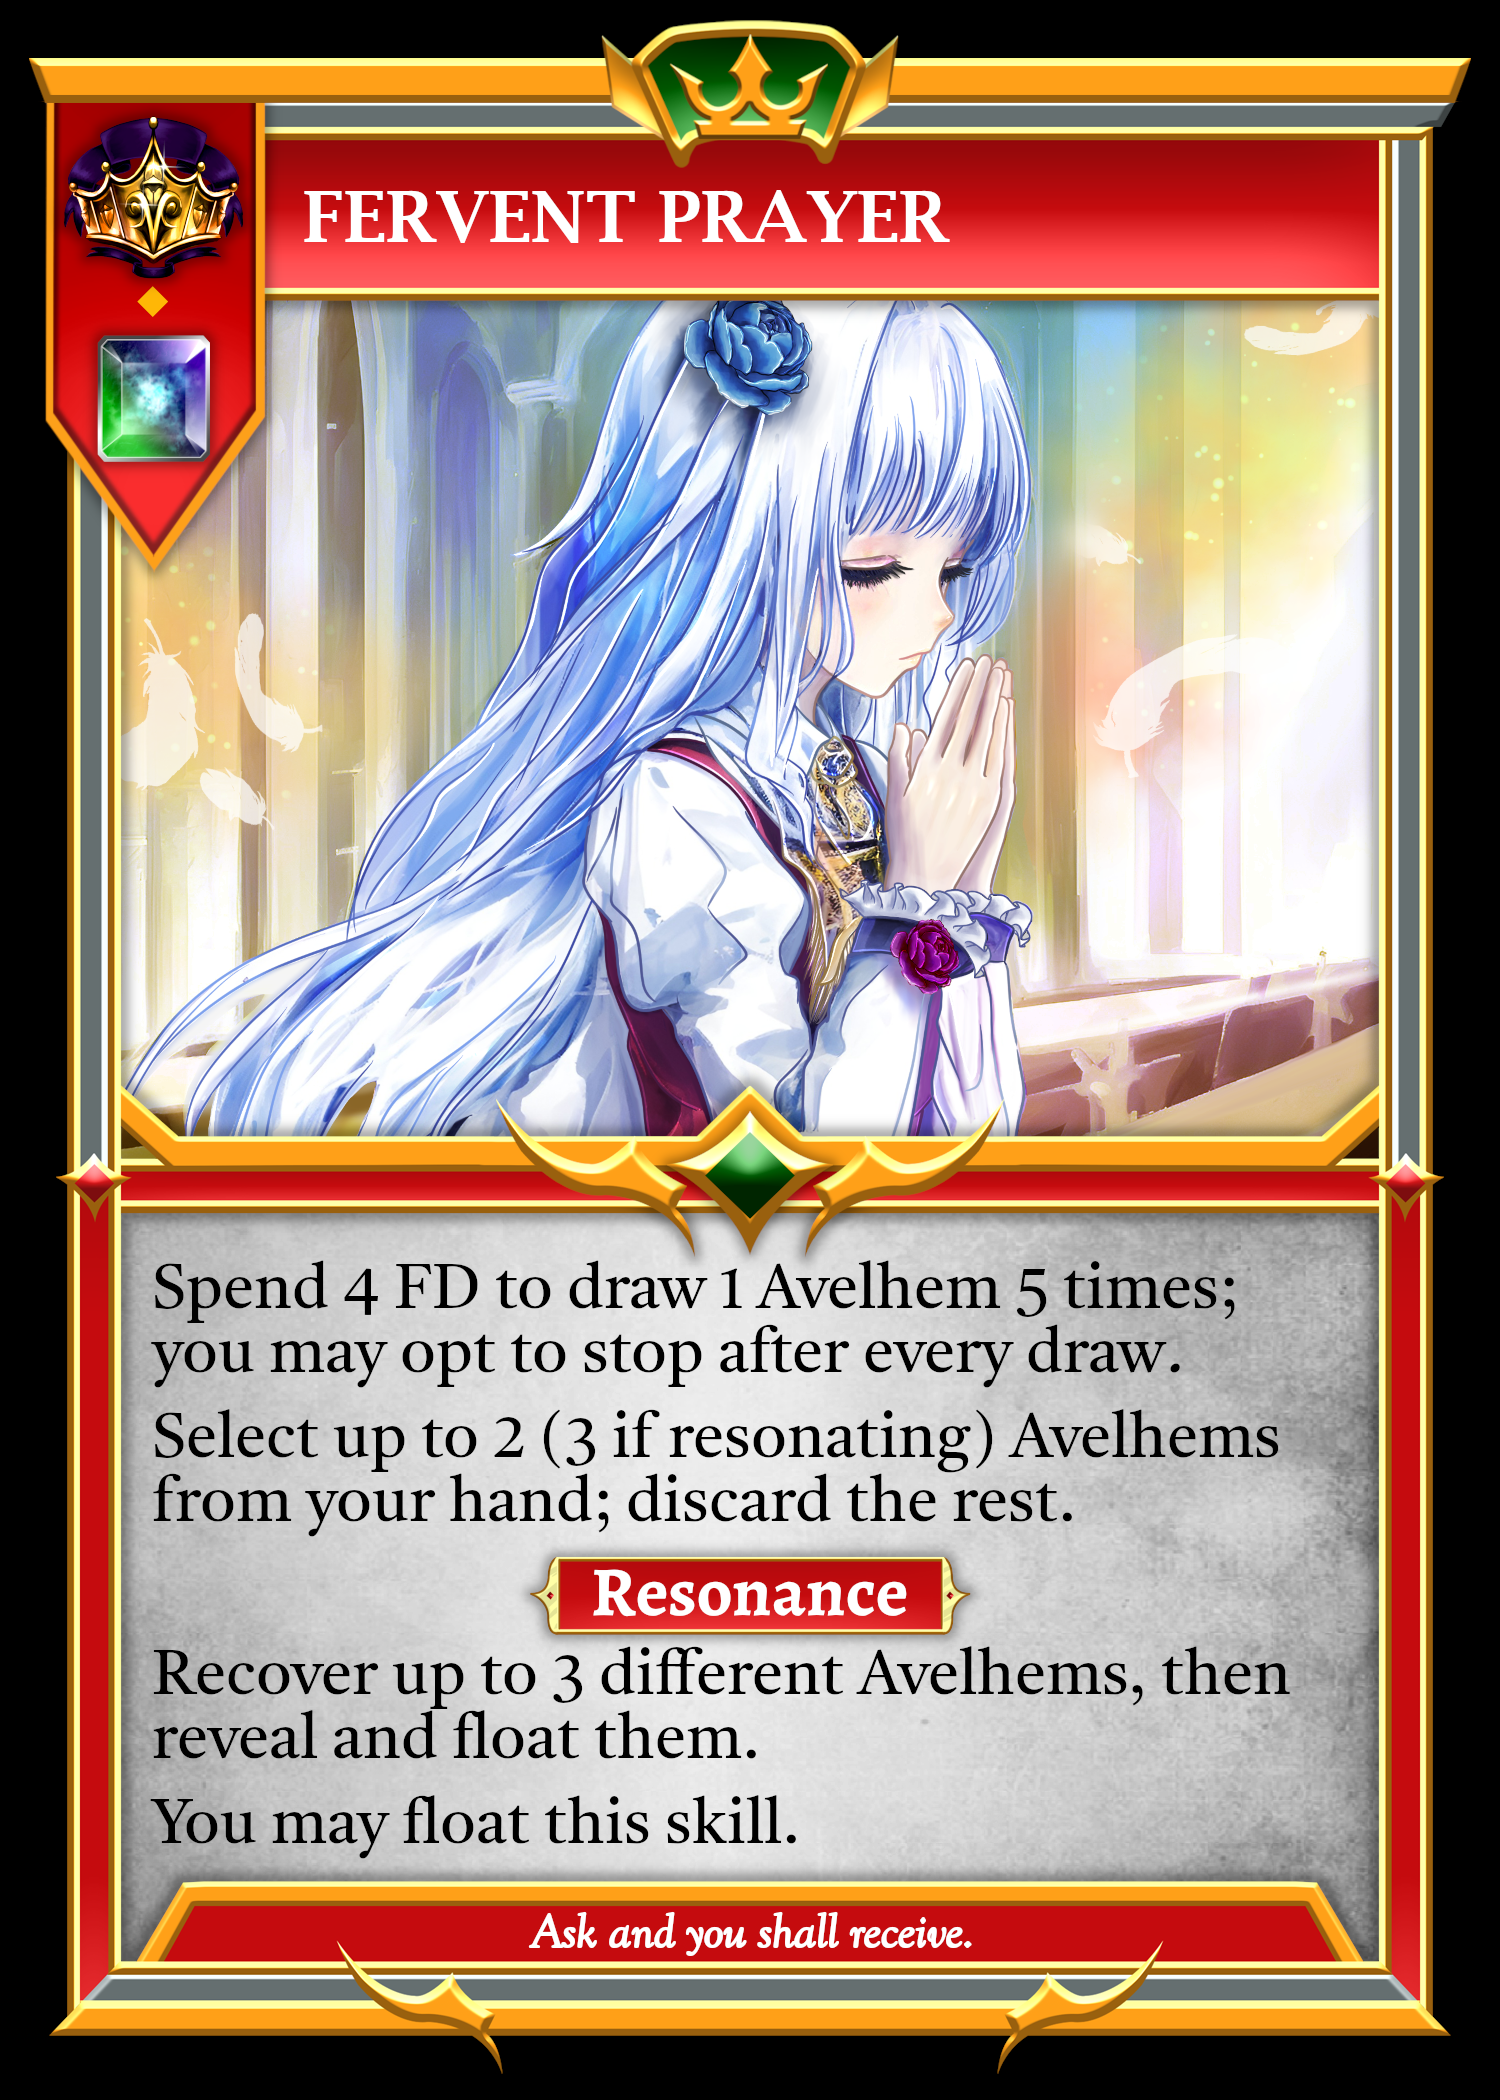
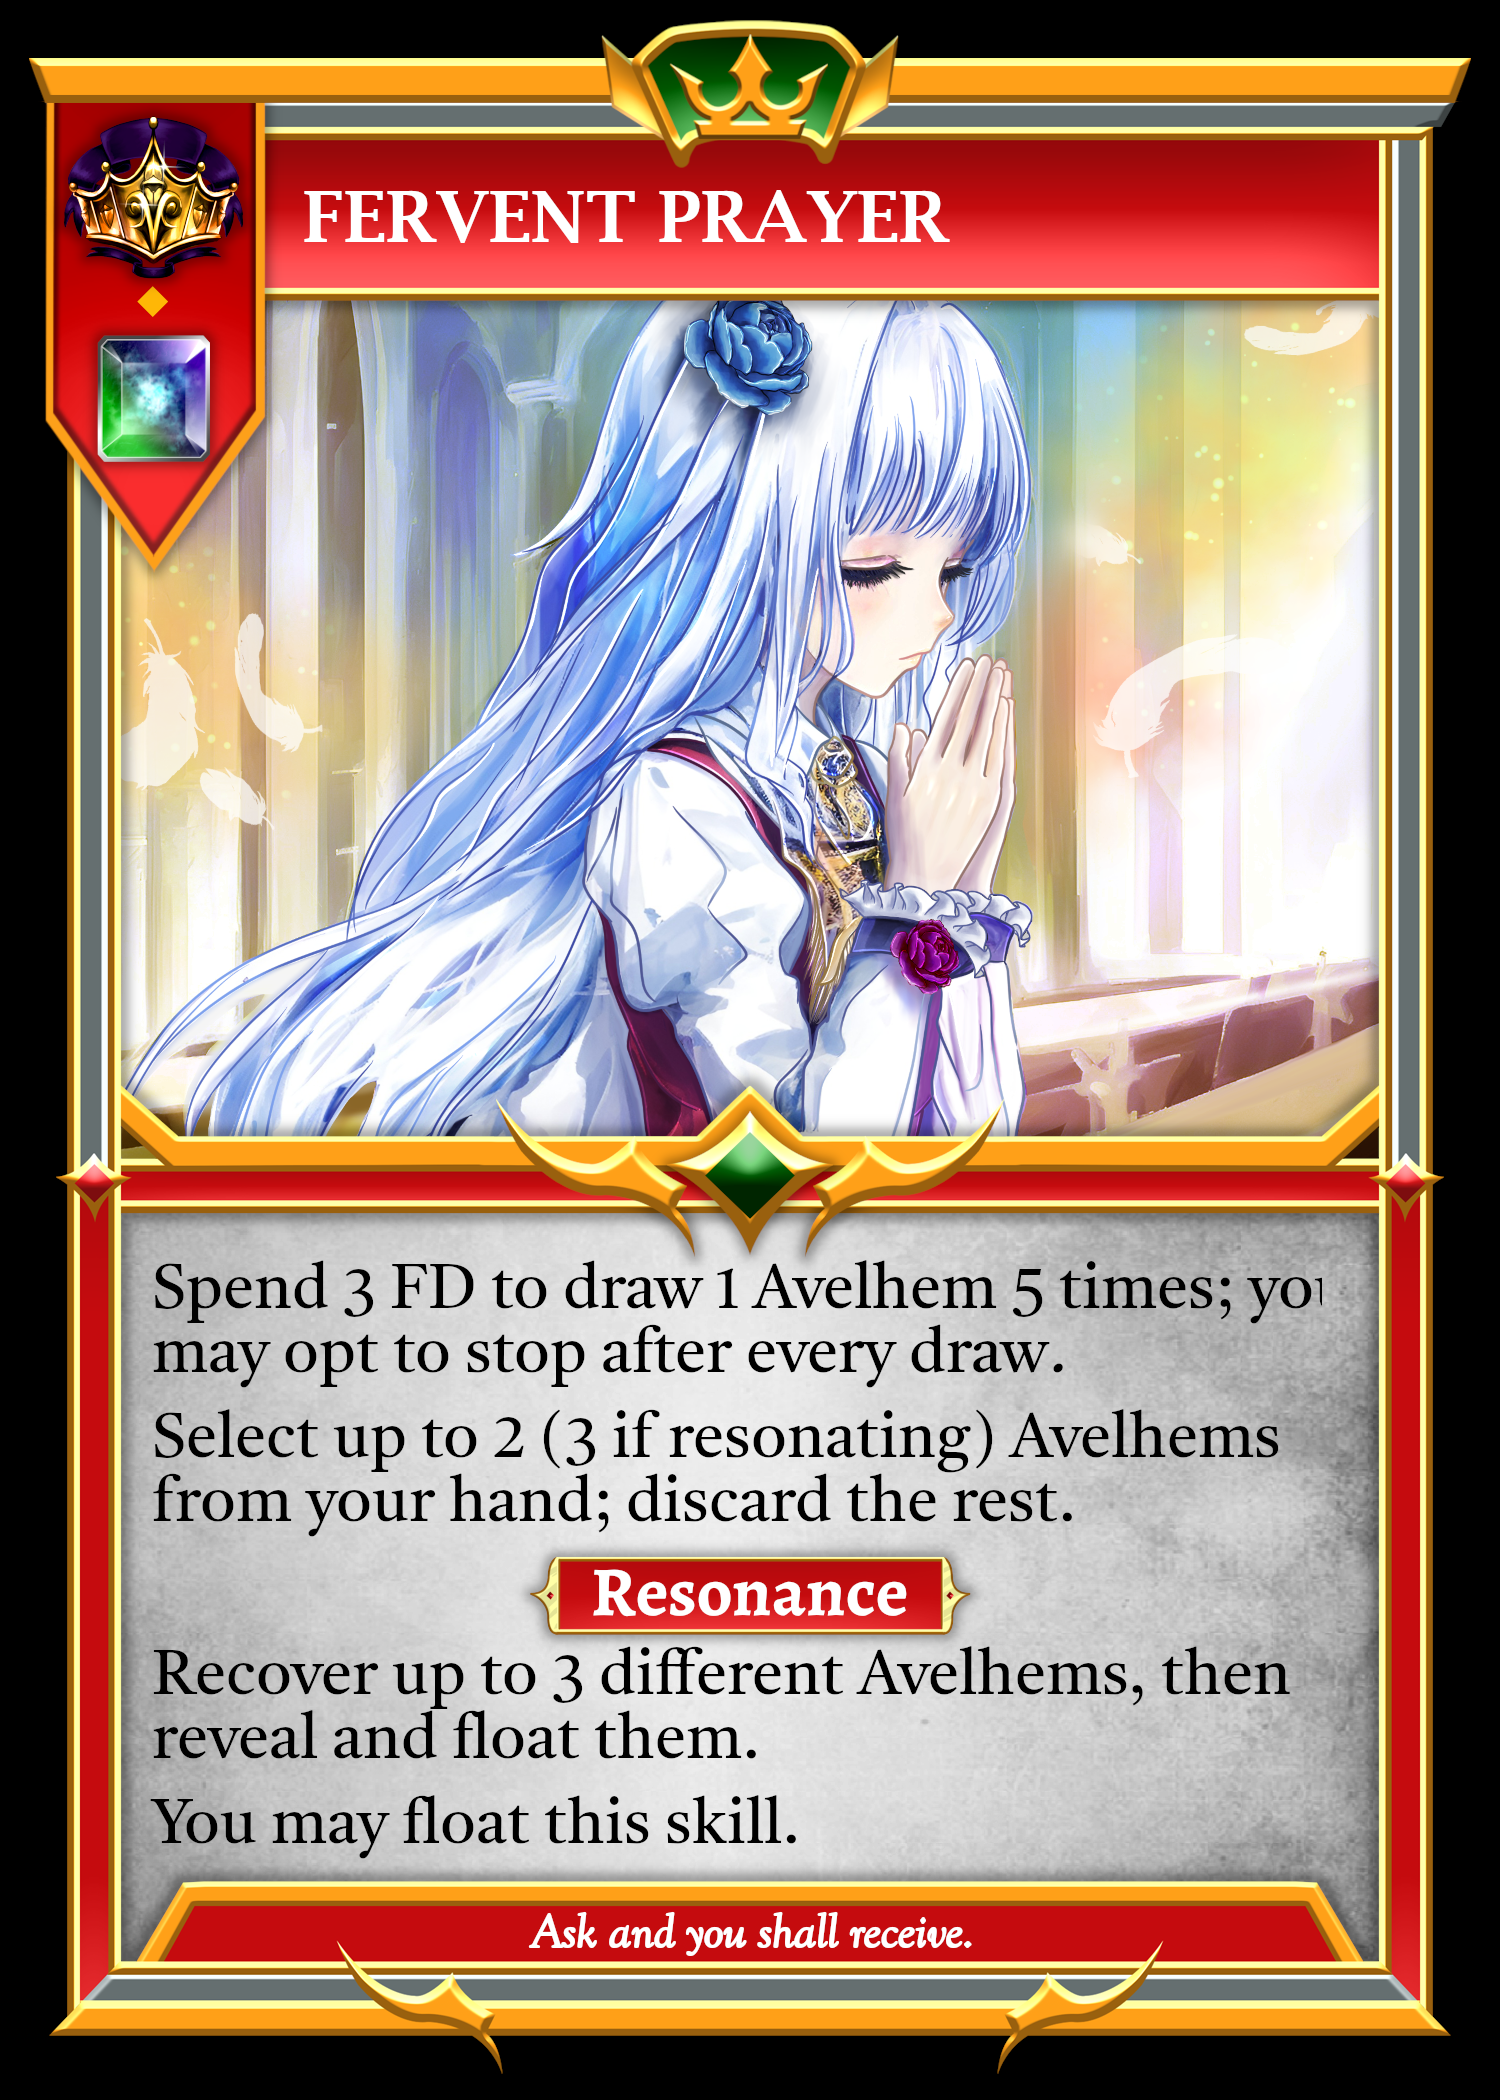
reduced fervent prayer cost from 4fd to 3

Changed region(s): [[0.092, 0.5881, 0.8587, 0.681]]

diff --git a/src/components/modals/ViewBPUpgrades.jsx b/src/components/modals/ViewBPUpgrades.jsx
@@ -29,10 +29,10 @@ const ViewBPUpgrades = (props) => {
   };
 
   return (
-    <div className="modal-backdrop unitInfo-text">
-      <div className="unitInfoModal ">
-        <div className="unitInfoHeader">
-          <h2 className="unitInfo-name">
+    <div className="modal-backdrop">
+      <div className="info-modal ">
+        <div className="info-modal-header">
+          <div className="info-modal-title">
             {`Bounty Upgrades (${props.team})`}
 
             <svg
@@ -43,7 +43,7 @@ const ViewBPUpgrades = (props) => {
             >
               <path d="M256 512A256 256 0 1 0 256 0a256 256 0 1 0 0 512zM169.8 165.3c7.9-22.3 29.1-37.3 52.8-37.3h58.3c34.9 0 63.1 28.3 63.1 63.1c0 22.6-12.1 43.5-31.7 54.8L280 264.4c-.2 13-10.9 23.6-24 23.6c-13.3 0-24-10.7-24-24V250.5c0-8.6 4.6-16.5 12.1-20.8l44.3-25.4c4.7-2.7 7.6-7.7 7.6-13.1c0-8.4-6.8-15.1-15.1-15.1H222.6c-3.4 0-6.4 2.1-7.5 5.3l-.4 1.2c-4.4 12.5-18.2 19-30.6 14.6s-19-18.2-14.6-30.6l.4-1.2zM224 352a32 32 0 1 1 64 0 32 32 0 1 1 -64 0z" />
             </svg>
-          </h2>
+          </div>
           <svg
             xmlns="http://www.w3.org/2000/svg"
             viewBox="0 0 512 512"
@@ -56,123 +56,129 @@ const ViewBPUpgrades = (props) => {
           </svg>
         </div>
 
-        <div className="scrollable">
-          <div>
-            {upgrades.frontier > 0 && (
-              <>
-                <h3>Frontier:</h3>
-                <p className="unitInfo-text-desc">
-                  Frontier expanded to {upgrades.frontier + 3} rows.
-                </p>
-                <br />
-              </>
-            )}
-          </div>
+        <div className="info-modal-contents scrollable">
+          <div className="">
+            <div>
+              {upgrades.frontier > 0 && (
+                <>
+                  <h3>Frontier:</h3>
+                  <p className="unitInfo-text-desc">
+                    Frontier expanded to {upgrades.frontier + 3} rows.
+                  </p>
+                  <br />
+                </>
+              )}
+            </div>
 
-          <div>
-            {upgrades.acquisition > 0 && (
-              <>
-                <h3>Acquisition:</h3>
+            <div>
+              {upgrades.acquisition > 0 && (
+                <>
+                  <h3>Acquisition:</h3>
 
-                {upgrades.acquisition >= 1 && (
-                  <p className="unitInfo-text-desc">
-                    Pawns deployed via Appoint gain Shield for 2 turns.
-                  </p>
-                )}
-                {upgrades.acquisition >= 2 && (
-                  <p className="unitInfo-text-desc">Beseech grants 1 FD.</p>
-                )}
-                {upgrades.acquisition >= 3 && (
-                  <p className="unitInfo-text-desc">
-                    May spend 1 skill to draw another skill via Cultivate.
-                  </p>
-                )}
-                <br />
-              </>
-            )}
-          </div>
+                  {upgrades.acquisition >= 1 && (
+                    <p className="unitInfo-text-desc">
+                      1. Pawns deployed via Appoint gain Shield for 2 turns.
+                    </p>
+                  )}
+                  {upgrades.acquisition >= 2 && (
+                    <p className="unitInfo-text-desc">
+                      2. Beseech grants 1 FD.
+                    </p>
+                  )}
+                  {upgrades.acquisition >= 3 && (
+                    <p className="unitInfo-text-desc">
+                      3. May spend 1 skill to draw another skill via Cultivate.
+                    </p>
+                  )}
+                  <br />
+                </>
+              )}
+            </div>
 
-          <div>
-            {upgrades.coordination > 0 && (
-              <>
-                <h3>Cordination:</h3>
+            <div>
+              {upgrades.coordination > 0 && (
+                <>
+                  <h3>Cordination:</h3>
 
-                {upgrades.coordination >= 1 && (
-                  <p className="unitInfo-text-desc">
-                    Battle Cry upgraded: roll 1 tactical die.
-                  </p>
-                )}
-                {upgrades.coordination >= 2 && (
-                  <p className="unitInfo-text-desc">
-                    Convene upgraded: gain 1 Advance tactic and draw 1 Avelhem.
-                  </p>
-                )}
-                <br />
-              </>
-            )}
-          </div>
+                  {upgrades.coordination >= 1 && (
+                    <p className="unitInfo-text-desc">
+                      1. Battle Cry upgraded: roll 1 tactical die.
+                    </p>
+                  )}
+                  {upgrades.coordination >= 2 && (
+                    <p className="unitInfo-text-desc">
+                      2. Convene upgraded: gain 1 Advance tactic and draw 1
+                      Avelhem.
+                    </p>
+                  )}
+                  <br />
+                </>
+              )}
+            </div>
 
-          <div>
-            {upgrades.tactics > 0 && (
-              <>
-                <h3>Tactics:</h3>
+            <div>
+              {upgrades.tactics > 0 && (
+                <>
+                  <h3>Tactics:</h3>
 
-                {upgrades.tactics >= 1 && (
-                  <p className="unitInfo-text-desc">
-                    Invoke upgraded: unlocked Divine Invocation
-                  </p>
-                )}
-                {upgrades.tactics >= 2 && (
-                  <p className="unitInfo-text-desc">
-                    Advance upgraded: may draw 1 Avelhem after deploying a pawn.
-                  </p>
-                )}
-                {upgrades.tactics >= 3 && (
-                  <p className="unitInfo-text-desc">
-                    Mobilize upgraded: instances raised from 3 to 4.
-                  </p>
-                )}
-                {upgrades.tactics >= 4 && (
-                  <p className="unitInfo-text-desc">
-                    Advance upgraded: can float 1 skill to deploy a Scion in
-                    their frontier.
-                  </p>
-                )}
-                <br />
-              </>
-            )}
-          </div>
+                  {upgrades.tactics >= 1 && (
+                    <p className="unitInfo-text-desc">
+                      1. Invoke upgraded: unlocked Divine Invocation
+                    </p>
+                  )}
+                  {upgrades.tactics >= 2 && (
+                    <p className="unitInfo-text-desc">
+                      2. Advance upgraded: may draw 1 Avelhem after deploying a
+                      pawn.
+                    </p>
+                  )}
+                  {upgrades.tactics >= 3 && (
+                    <p className="unitInfo-text-desc">
+                      3. Mobilize upgraded: instances raised from 3 to 4.
+                    </p>
+                  )}
+                  {upgrades.tactics >= 4 && (
+                    <p className="unitInfo-text-desc">
+                      4. Advance upgraded: can float 1 skill to deploy a Scion
+                      in their frontier.
+                    </p>
+                  )}
+                  <br />
+                </>
+              )}
+            </div>
 
-          <div>
-            {upgrades.avelhem > 0 && (
-              <>
-                <h3>Avelhem:</h3>
+            <div>
+              {upgrades.avelhem > 0 && (
+                <>
+                  <h3>Avelhem:</h3>
 
-                {upgrades.avelhem >= 1 && (
-                  <p className="unitInfo-text-desc">
-                    Can retain up to 1 Avelhem at the end of turn.
-                  </p>
-                )}
-                {upgrades.avelhem >= 2 && (
-                  <p className="unitInfo-text-desc">
-                    Avelhems have an alternate effect: spend 3 FD to search for
-                    1 non-burst skill with the matching aspect.
-                  </p>
-                )}
-                {upgrades.avelhem >= 3 && (
-                  <p className="unitInfo-text-desc">
-                    Units ascending via Avelhems gain Shield for 2 turns.
-                  </p>
-                )}
-                {upgrades.avelhem >= 4 && (
-                  <p className="unitInfo-text-desc">
-                    Avelhems have an alternate effect: spend 3 FD to recover 1
-                    skill with the matching aspect.
-                  </p>
-                )}
-                <br />
-              </>
-            )}
+                  {upgrades.avelhem >= 1 && (
+                    <p className="unitInfo-text-desc">
+                      1. Can retain up to 1 Avelhem at the end of turn.
+                    </p>
+                  )}
+                  {upgrades.avelhem >= 2 && (
+                    <p className="unitInfo-text-desc">
+                      2. Avelhems have an alternate effect: spend 3 FD to search
+                      for 1 non-burst skill with the matching aspect.
+                    </p>
+                  )}
+                  {upgrades.avelhem >= 3 && (
+                    <p className="unitInfo-text-desc">
+                      3. Units ascending via Avelhems gain Shield for 2 turns.
+                    </p>
+                  )}
+                  {upgrades.avelhem >= 4 && (
+                    <p className="unitInfo-text-desc">
+                      4. Avelhems have an alternate effect: spend 3 FD to
+                      recover 1 skill with the matching aspect.
+                    </p>
+                  )}
+                  <br />
+                </>
+              )}
+            </div>
           </div>
         </div>
       </div>

diff --git a/src/components/modals/ContingencySettings.jsx b/src/components/modals/ContingencySettings.jsx
@@ -24,10 +24,10 @@ const ContingencySettings = (props) => {
   };
 
   return (
-    <div className="modal-backdrop unitInfo-text">
-      <div className="unitInfoModal ">
-        <div className="unitInfoHeader">
-          <h2 className="unitInfo-name">Contingency Settings</h2>
+    <div className="modal-backdrop">
+      <div className="info-modal ">
+        <div className="info-modal-header">
+          <div className="info-modal-title">Contingency Settings</div>
           <svg
             xmlns="http://www.w3.org/2000/svg"
             viewBox="0 0 512 512"
@@ -40,43 +40,42 @@ const ContingencySettings = (props) => {
           </svg>
         </div>
 
-        <br />
+        <div className="info-modal-contents scrollable">
+          <div>
+            Whenever an event triggers a contingent skill that exists in the
+            game, Sovereigns will be prompted to respond, regardless of the
+            skill’s presence in their hand for the sake of bluffing.
+            <br></br>
+            <br></br>
+            This setting allows one to automatically skip the prompt if no such
+            skill exists in their hand, allowing for swifter play.{" "}
+            <strong>Unchecked items will skip the prompt</strong> of their
+            corresponding contingency type:
+            <br></br>
+            <br></br>
+          </div>
+          <br />
 
-        <div>
-          Whenever an event triggers a contingent skill that exists in the game,
-          Sovereigns will be prompted to respond, regardless of the skill’s
-          presence in their hand for the sake of bluffing.
-          <br></br>
-          <br></br>
-          This setting allows one to automatically skip the prompt if no such
-          skill exists in their hand, allowing for swifter play.{" "}
-          <strong>Unchecked items will skip the prompt</strong> of their
-          corresponding contingency type:
-          <br></br>
-          <br></br>
-        </div>
-        <br />
-
-        <div className="check-box-list">
-          {Object.keys(contingencySettings).map((key) => (
-            <div className="check-box-label" key={key}>
-              {/* {key} */}
-              <input
-                type="checkbox"
-                id={key}
-                name={key}
-                checked={contingencySettings[key]}
-                onChange={() => handleCheckboxChange(key)}
-              />
-              <label className="" htmlFor={key}>
-                {" "}
-                {key}
-              </label>
-            </div>
-          ))}
+          <div className="check-box-list">
+            {Object.keys(contingencySettings).map((key) => (
+              <div className="check-box-label" key={key}>
+                {/* {key} */}
+                <input
+                  type="checkbox"
+                  id={key}
+                  name={key}
+                  checked={contingencySettings[key]}
+                  onChange={() => handleCheckboxChange(key)}
+                />
+                <label className="" htmlFor={key}>
+                  {" "}
+                  {key}
+                </label>
+              </div>
+            ))}
+          </div>
         </div>
       </div>
-      {/* {infoPopUp && <InfoPopUp info={infoPopUp} setInfoPopUp={setInfoPopUp} />} */}
     </div>
   );
 };

diff --git a/src/hooks/useRecurringEffects.jsx b/src/hooks/useRecurringEffects.jsx
@@ -3066,7 +3066,7 @@ export const useRecurringEffects = () => {
         return hasTactic(["Invoke"]);
 
       case "SB-04": // Fervent Prayer
-        return localGameState[self].fateDefiances >= 4;
+        return localGameState[self].fateDefiances >= 3;
 
       case "SB-05": // Press the Attack
         return canPressTheAttack();

diff --git a/src/hooks/useSovereignSkillEffects.jsx b/src/hooks/useSovereignSkillEffects.jsx
@@ -339,7 +339,7 @@ export const useSovereignSkillEffects = () => {
     //end "Activating Fervent Prayer" resolution
     newGameState.currentResolution.pop();
 
-    newGameState[self].fateDefiances -= 4;
+    newGameState[self].fateDefiances -= 3;
 
     let count = 2;
     if (resonator) {

diff --git a/src/components/modals/YouMayNoYes.jsx b/src/components/modals/YouMayNoYes.jsx
@@ -507,8 +507,7 @@ const YouMayNoYes = (props) => {
           </div>
         </div>
 
-        <br />
-        <h3>{props.details.message}</h3>
+        <h3 style={{ maxWidth: 700 }}>{props.details.message}</h3>
         <br />
 
         <div className="modalBottomButton">
